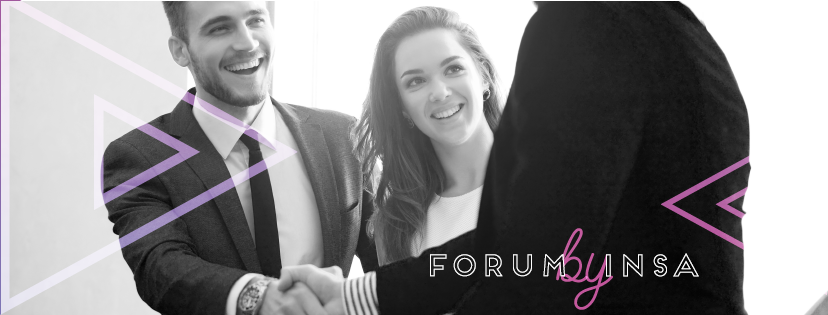
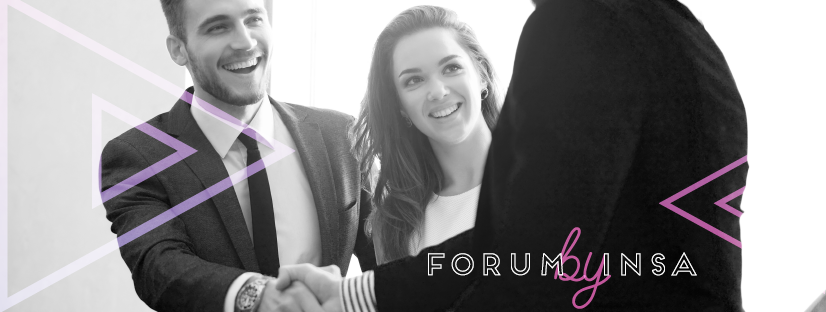
MAJ des infos du prochains forum

diff --git a/assets/styles/custom.css b/assets/styles/custom.css
@@ -1,6 +1,6 @@
 header {
   text-align: left;
-  background-image : linear-gradient(to bottom right, #F02FC2, #6094EA);
+  background-image : linear-gradient(to bottom right, #86156b, #284d8b); /*#F02FC2, #6094EA*/
   width: 100%;
 }
 
@@ -100,6 +100,14 @@ h2, h3 {
       color: #7E7E7E;
       margin-bottom: 20px;
       text-align: justify;
+}
+
+.content img.bw {
+    filter: grayscale(100%);
+    -webkit-filter: grayscale(100%);
+    -moz-filter: grayscale(100%);
+    -ms-filter: grayscale(100%);
+    -o-filter: grayscale(100%);
 }
 
 @media (max-width: 1030px){
